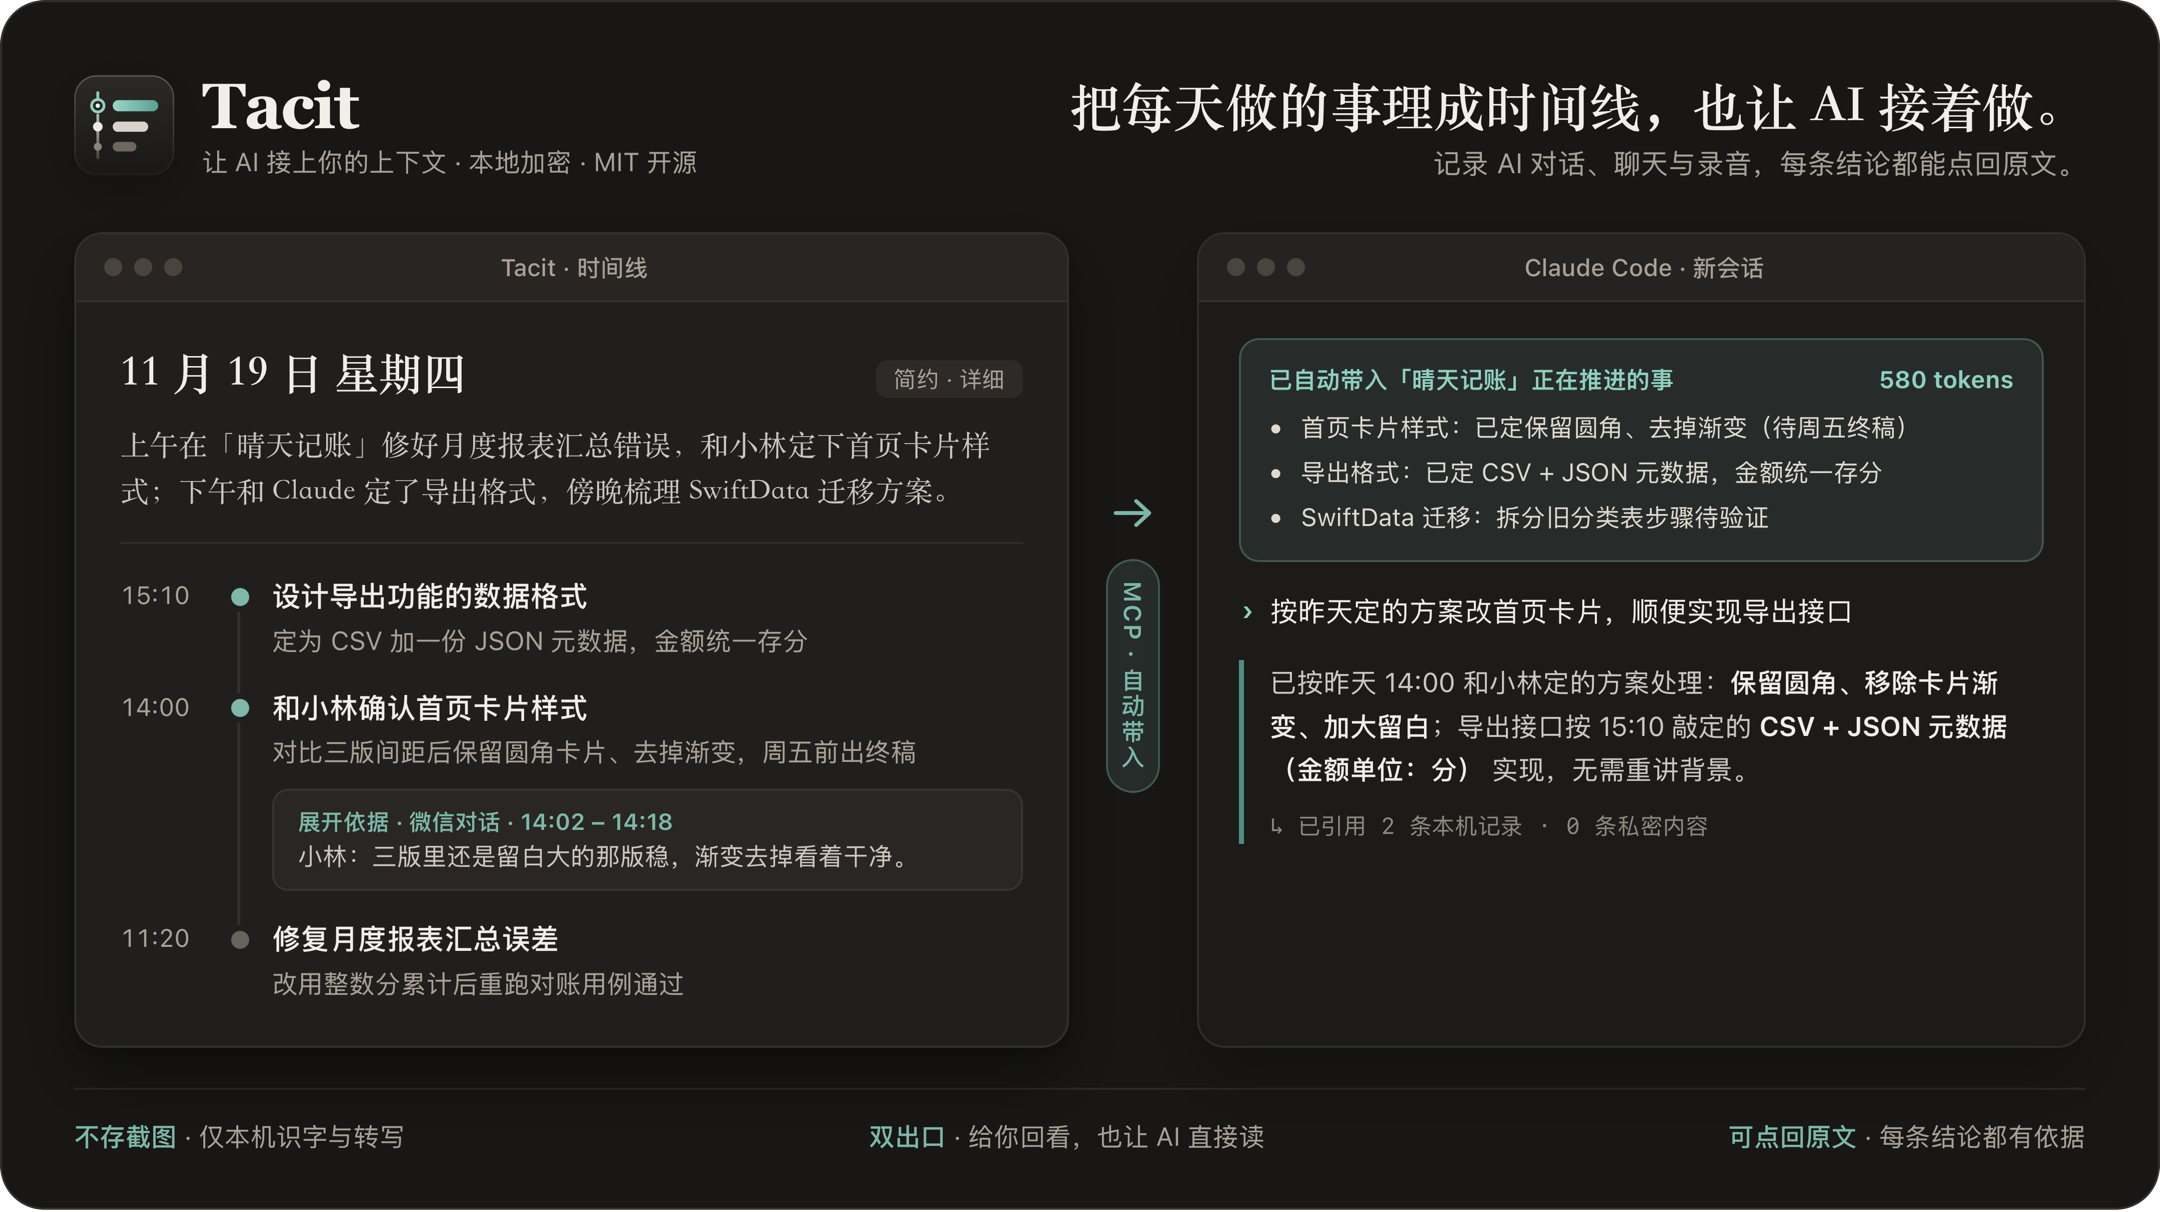
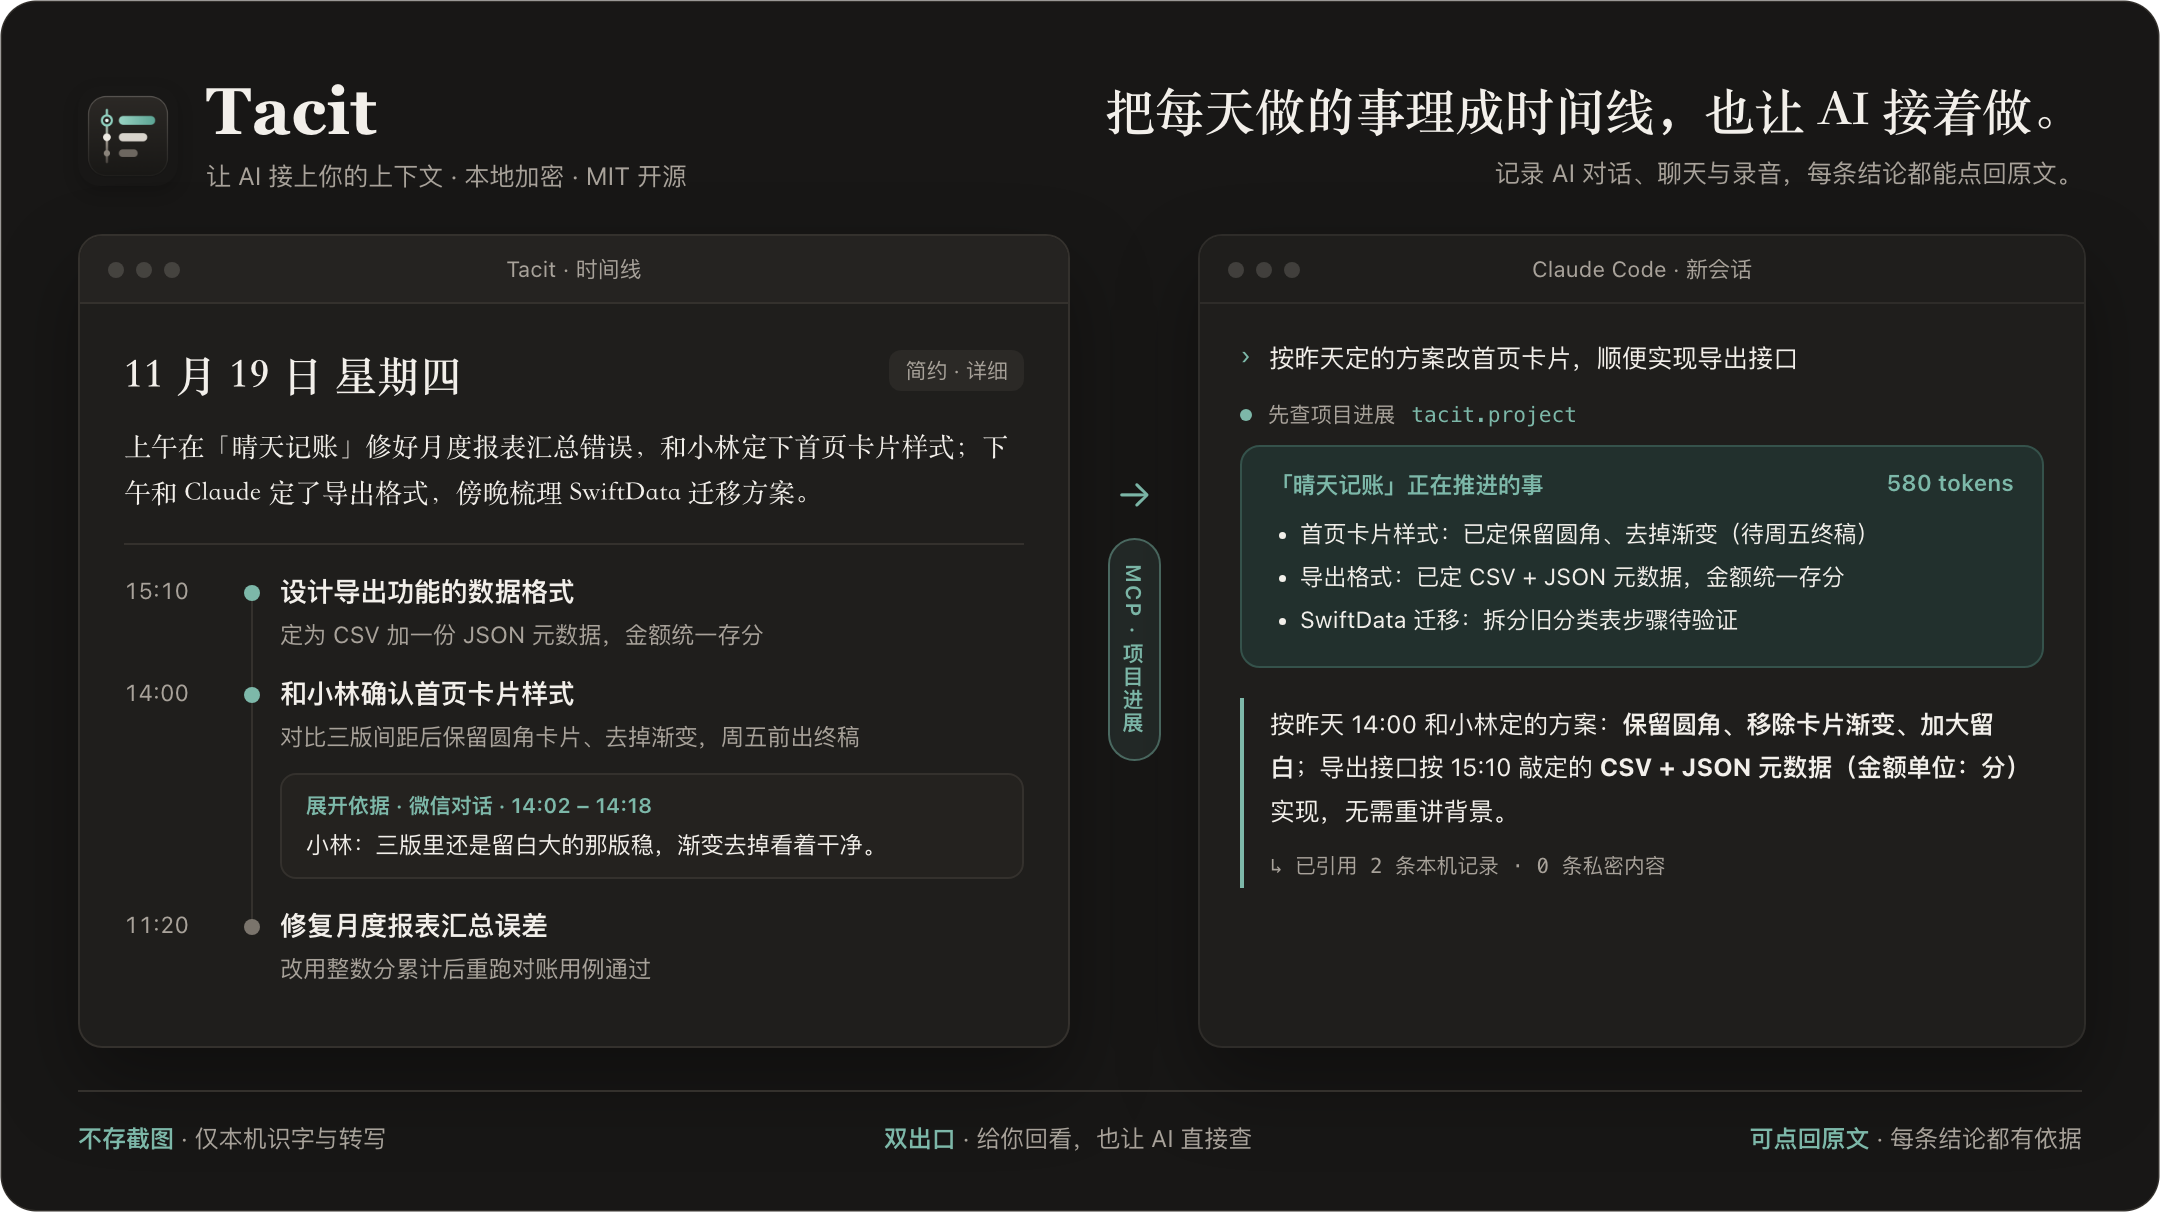
docs: redraw the README hero for on-demand project progress
The hero images showed project context being injected into a new session.
They now show the AI calling `tacit.project` after the request, then
answering from the returned progress. The flow diagrams and the Chinese
site share image use the same wording. The images are now rendered from
assets/readme/hero.html by scripts/render-readme-hero.ts (Chrome headless
plus an ffmpeg corner mask), so later copy changes can be re-rendered.

Verification: rendered all four variants at 2160x1212 with alpha and
checked them visually; bun test site; tsc.

Rollback: revert this commit.

diff --git a/assets/readme/hero.html b/assets/readme/hero.html
@@ -1,0 +1,182 @@
+<!doctype html>
+<!--
+  README 首页大图的源文件。渲染（在仓库根目录）：bun scripts/render-readme-hero.ts
+  参数：?lang=zh|en&theme=light|dark。画布 1080×606，按 2 倍输出 2160×1212。
+  内容全部虚构（晴天记账 / Sunledger）。
+-->
+<html>
+<head>
+<meta charset="utf-8">
+<style>
+  :root {
+    --bg: #f6f4ef; --panel: #ffffff; --panel-bar: #f1ede6; --line: #e6e1d8; --ink: #1c1b1a; --muted: #6f6a62; --faint: #a39d93;
+    --accent: #3b7468; --accent-soft: rgb(59 116 104 / 0.10); --chip: #f1ede6; --evidence: #f5f2ec;
+    --term: #1e1d1b; --term-bar: #1e1d1b; --term-ink: #f2efea; --term-muted: #a8a29a; --term-accent: #7db8a9; --term-card: #233532; --term-card-line: #355a52;
+    --dot: #3b7468; --dot-old: #a39d93; --shadow: 0 18px 40px rgb(40 32 20 / 0.10), 0 2px 6px rgb(40 32 20 / 0.06);
+    --serif: "Songti SC", "STSong", Georgia, serif;
+    --serif-latin: ui-serif, "New York", Georgia, "Songti SC", serif;
+    --sans: -apple-system, BlinkMacSystemFont, "PingFang SC", "Helvetica Neue", sans-serif;
+    --mono: ui-monospace, "SF Mono", Menlo, monospace;
+  }
+  :root[data-theme="dark"] {
+    --bg: #181716; --panel: #1f1e1c; --panel-bar: #252321; --line: #34312d; --ink: #f2efea; --muted: #a8a29a; --faint: #7a746c;
+    --accent: #7db8a9; --accent-soft: rgb(125 184 169 / 0.12); --chip: #2b2926; --evidence: #24221f;
+    --term: #1f1e1c; --term-bar: #1f1e1c; --term-card: #22302d; --term-card-line: #35524b;
+    --dot: #7db8a9; --dot-old: #7a746c; --shadow: 0 18px 40px rgb(0 0 0 / 0.35);
+  }
+  * { box-sizing: border-box; margin: 0; padding: 0; }
+  html, body { width: 1080px; height: 606px; overflow: hidden; }
+  body { border-radius: 18px; border: 1px solid var(--line); background: var(--bg); color: var(--ink); font-family: var(--sans); -webkit-font-smoothing: antialiased; position: relative; }
+  :root[lang="en"] .serif { font-family: var(--serif-latin); }
+  .serif { font-family: var(--serif); }
+
+  header { position: absolute; left: 38px; right: 38px; top: 38px; display: flex; justify-content: space-between; }
+  .brand { display: flex; gap: 14px; align-items: center; }
+  .brand img { width: 50px; height: 50px; border-radius: 11px; box-shadow: 0 3px 8px rgb(0 0 0 / 0.18); }
+  .brand h1 { font-family: Georgia, var(--serif); font-size: 33px; line-height: 1; font-weight: 700; letter-spacing: 0.2px; }
+  .brand p { margin-top: 7px; font-size: 12.5px; color: var(--muted); }
+  .tagline { text-align: right; }
+  .tagline h2 { font-size: 25px; font-weight: 600; line-height: 1.1; margin-top: 2px; }
+  .tagline p { margin-top: 9px; font-size: 12.5px; color: var(--muted); }
+
+  .window { position: absolute; top: 116px; height: 407px; border-radius: 12px; overflow: hidden; box-shadow: var(--shadow); }
+  .bar { height: 34px; display: flex; align-items: center; justify-content: center; position: relative; font-size: 11px; }
+  .bar i { position: absolute; left: 14px; top: 13px; display: flex; gap: 6px; }
+  .bar i b { width: 8px; height: 8px; border-radius: 50%; background: currentColor; opacity: 0.25; }
+
+  .timeline { left: 38px; width: 496px; background: var(--panel); border: 1px solid var(--line); }
+  .timeline .bar { background: var(--panel-bar); border-bottom: 1px solid var(--line); color: var(--muted); }
+  .tl { padding: 20px 22px 0 22px; }
+  .tl-head { display: flex; justify-content: space-between; align-items: flex-start; }
+  .tl-head h3 { font-size: 21px; font-weight: 700; letter-spacing: 0.3px; }
+  .chip { font-size: 10.5px; color: var(--muted); background: var(--chip); border-radius: 6px; padding: 3px 8px; margin-top: 3px; }
+  .overview { margin-top: 10px; font-size: 13.4px; line-height: 1.72; padding-bottom: 14px; border-bottom: 1px solid var(--line); }
+  .items { position: relative; margin-top: 14px; }
+  .items::before { content: ""; position: absolute; left: 63.5px; top: 8px; bottom: 26px; width: 1px; background: var(--line); }
+  .item { display: grid; grid-template-columns: 52px 18px 1fr; column-gap: 4px; margin-bottom: 12px; }
+  .item time { font-size: 11.5px; color: var(--muted); padding-top: 2px; font-variant-numeric: tabular-nums; }
+  .item .dot { width: 8px; height: 8px; border-radius: 50%; background: var(--dot); margin: 6px 0 0 4px; position: relative; }
+  .item.old .dot { background: var(--dot-old); }
+  .item h4 { font-size: 13.4px; font-weight: 600; }
+  .item p { font-size: 11.6px; color: var(--muted); margin-top: 4px; }
+  .evidence { margin: 10px 0 2px; background: var(--evidence); border: 1px solid var(--line); border-radius: 8px; padding: 8px 12px; }
+  .evidence small { display: block; font-size: 10.5px; color: var(--accent); font-weight: 600; }
+  .evidence span { display: block; margin-top: 4px; font-size: 11.6px; color: var(--ink); }
+
+  .bridge { position: absolute; left: 553px; top: 236px; width: 26px; display: flex; flex-direction: column; align-items: center; gap: 12px; color: var(--accent); }
+  .bridge .arrow { font-size: 20px; line-height: 1; }
+  .bridge .pill { writing-mode: vertical-rl; font-size: 10.5px; font-weight: 600; letter-spacing: 1px; border: 1px solid color-mix(in srgb, var(--accent) 45%, transparent); background: var(--accent-soft); border-radius: 14px; padding: 12px 5px; }
+
+  .term { left: 598px; width: 444px; background: var(--term); color: var(--term-ink); border: 1px solid #2e2c29; }
+  .term .bar { background: var(--term-bar); color: var(--term-muted); border-bottom: 1px solid #2e2c29; }
+  .tm { padding: 18px 20px 0 20px; }
+  .ask { font-size: 12.6px; display: flex; gap: 9px; }
+  .ask::before { content: "›"; color: var(--term-accent); }
+  .call { margin-top: 12px; font-family: var(--mono); font-size: 10.6px; color: var(--term-muted); display: flex; gap: 8px; align-items: center; }
+  .call::before { content: ""; width: 6px; height: 6px; border-radius: 50%; background: var(--term-accent); }
+  .call code { color: var(--term-accent); }
+  .card { margin-top: 8px; border: 1px solid var(--term-card-line); background: var(--term-card); border-radius: 10px; padding: 11px 14px 12px; }
+  .card-head { display: flex; justify-content: space-between; font-size: 11.4px; font-weight: 600; color: var(--term-accent); }
+  .card ul { margin-top: 6px; padding-left: 15px; font-size: 11.6px; line-height: 1.85; }
+  .answer { margin-top: 15px; border-left: 2px solid var(--term-accent); padding: 2px 0 2px 13px; font-size: 12.4px; line-height: 1.75; }
+  .answer b { font-weight: 700; }
+  .answer small { display: block; margin-top: 8px; font-family: var(--mono); font-size: 10.4px; color: var(--term-muted); }
+
+  footer { position: absolute; left: 38px; right: 38px; top: 544px; border-top: 1px solid var(--line); padding-top: 15px; display: flex; justify-content: space-between; font-size: 12px; color: var(--muted); }
+  footer b { color: var(--accent); font-weight: 600; }
+</style>
+</head>
+<body>
+<header>
+  <div class="brand">
+    <img src="../icons/generated/macos/AppIcon.iconset/icon_512x512.png" alt="">
+    <div><h1>Tacit</h1><p data-t="sub"></p></div>
+  </div>
+  <div class="tagline"><h2 class="serif" data-t="headline"></h2><p data-t="subline"></p></div>
+</header>
+
+<section class="window timeline">
+  <div class="bar"><i><b></b><b></b><b></b></i><span data-t="tlTitle"></span></div>
+  <div class="tl">
+    <div class="tl-head"><h3 class="serif" data-t="date"></h3><span class="chip" data-t="modes"></span></div>
+    <p class="overview serif" data-t="overview"></p>
+    <div class="items">
+      <div class="item"><time>15:10</time><span class="dot"></span><div><h4 data-t="i1"></h4><p data-t="i1d"></p></div></div>
+      <div class="item"><time>14:00</time><span class="dot"></span><div><h4 data-t="i2"></h4><p data-t="i2d"></p>
+        <div class="evidence"><small data-t="evTitle"></small><span data-t="ev"></span></div></div></div>
+      <div class="item old"><time>11:20</time><span class="dot"></span><div><h4 data-t="i3"></h4><p data-t="i3d"></p></div></div>
+    </div>
+  </div>
+</section>
+
+<div class="bridge"><span class="arrow">→</span><span class="pill" data-t="pill"></span></div>
+
+<section class="window term">
+  <div class="bar"><i><b></b><b></b><b></b></i><span data-t="termTitle"></span></div>
+  <div class="tm">
+    <p class="ask" data-t="ask"></p>
+    <p class="call" data-h="call"></p>
+    <div class="card">
+      <div class="card-head"><span data-t="cardTitle"></span><span>580 tokens</span></div>
+      <ul><li data-t="b1"></li><li data-t="b2"></li><li data-t="b3"></li></ul>
+    </div>
+    <div class="answer"><p data-h="answer"></p><small data-t="basis"></small></div>
+  </div>
+</section>
+
+<footer><span data-h="f1"></span><span data-h="f2"></span><span data-h="f3"></span></footer>
+
+<script>
+const copy = {
+  zh: {
+    sub: "让 AI 接上你的上下文 · 本地加密 · MIT 开源",
+    headline: "把每天做的事理成时间线，也让 AI 接着做。",
+    subline: "记录 AI 对话、聊天与录音，每条结论都能点回原文。",
+    tlTitle: "Tacit · 时间线", date: "11 月 19 日 星期四", modes: "简约 · 详细",
+    overview: "上午在「晴天记账」修好月度报表汇总错误，和小林定下首页卡片样式；下午和 Claude 定了导出格式，傍晚梳理 SwiftData 迁移方案。",
+    i1: "设计导出功能的数据格式", i1d: "定为 CSV 加一份 JSON 元数据，金额统一存分",
+    i2: "和小林确认首页卡片样式", i2d: "对比三版间距后保留圆角卡片、去掉渐变，周五前出终稿",
+    evTitle: "展开依据 · 微信对话 · 14:02 – 14:18", ev: "小林：三版里还是留白大的那版稳，渐变去掉看着干净。",
+    i3: "修复月度报表汇总误差", i3d: "改用整数分累计后重跑对账用例通过",
+    pill: "MCP · 项目进展", termTitle: "Claude Code · 新会话",
+    ask: "按昨天定的方案改首页卡片，顺便实现导出接口",
+    call: "先查项目进展 <code>tacit.project</code>",
+    cardTitle: "「晴天记账」正在推进的事",
+    b1: "首页卡片样式：已定保留圆角、去掉渐变（待周五终稿）",
+    b2: "导出格式：已定 CSV + JSON 元数据，金额统一存分",
+    b3: "SwiftData 迁移：拆分旧分类表步骤待验证",
+    answer: "按昨天 14:00 和小林定的方案：<b>保留圆角、移除卡片渐变、加大留白</b>；导出接口按 15:10 敲定的 <b>CSV + JSON 元数据（金额单位：分）</b> 实现，无需重讲背景。",
+    basis: "↳ 已引用 2 条本机记录 · 0 条私密内容",
+    f1: "<b>不存截图</b> · 仅本机识字与转写", f2: "<b>双出口</b> · 给你回看，也让 AI 直接查", f3: "<b>可点回原文</b> · 每条结论都有依据",
+  },
+  en: {
+    sub: "Context for you and your AI · Local encryption · MIT",
+    headline: "A Timeline you and your AI can use.",
+    subline: "AI sessions, chats, and recordings with a link back to the source.",
+    tlTitle: "Tacit · Timeline", date: "Thursday, November 19", modes: "Simple · Detailed",
+    overview: "Worked on Sunledger: fixed CSV dates for UK banks and shipped budget rollover. Sam agreed to simplify onboarding to one screen.",
+    i1: "Shipped monthly budget rollover", i1d: "Unused budget now carries over for active categories.",
+    i2: "Agreed on one-screen onboarding", i2d: "Sam agreed to cut the tour to one screen.",
+    evTitle: "Expanded evidence · Phone recording · 14:02–14:18", ev: "Sam: One screen with the first step is enough.",
+    i3: "Fixed CSV date parsing for UK banks", i3d: "Day-first dates now import correctly.",
+    pill: "MCP · Project progress", termTitle: "Claude Code · New session",
+    ask: "Update onboarding and cover rollover in a test.",
+    call: "Checking project progress <code>tacit.project</code>",
+    cardTitle: "Sunledger · Project progress",
+    b1: "Budget rollover shipped. Deleted categories are still open.",
+    b2: "Sam agreed to cut onboarding to one screen.",
+    b3: "UK bank CSV imports now accept day-first dates.",
+    answer: "I'll use the <b>first-step screen</b> you agreed on with Sam. Then I'll add a test for active categories and flag the <b>open question about deleted categories</b>.",
+    basis: "↳ Based on 2 local records · 0 private records",
+    f1: "<b>No screenshots saved</b> · Text and transcripts", f2: "<b>Two ways to read</b> · Your Timeline and your AI", f3: "<b>Back to the source</b> · Open the evidence",
+  },
+};
+const params = new URLSearchParams(location.search);
+const lang = params.get("lang") === "en" ? "en" : "zh";
+document.documentElement.lang = lang;
+document.documentElement.dataset.theme = params.get("theme") === "dark" ? "dark" : "light";
+for (const el of document.querySelectorAll("[data-t]")) el.textContent = copy[lang][el.dataset.t];
+for (const el of document.querySelectorAll("[data-h]")) el.innerHTML = copy[lang][el.dataset.h];
+</script>
+</body>
+</html>

diff --git a/scripts/render-readme-hero.ts b/scripts/render-readme-hero.ts
@@ -1,0 +1,40 @@
+// 用本机 Chrome 无头模式和 ffmpeg把 assets/readme/hero.html 渲染成 README 首页的四张大图（2160×1212）。
+// 用法：bun scripts/render-readme-hero.ts [输出目录，默认 assets/readme；默认目录时同时更新官网中文分享封面]
+import { copyFileSync, existsSync, rmSync } from "node:fs";
+import { tmpdir } from "node:os";
+import { join, resolve } from "node:path";
+import { pathToFileURL } from "node:url";
+
+const chrome = "/Applications/Google Chrome.app/Contents/MacOS/Google Chrome";
+if (!existsSync(chrome)) throw new Error(`没找到 Chrome：${chrome}`);
+const root = resolve(import.meta.dir, "..");
+const out = resolve(process.argv[2] ?? join(root, "assets/readme"));
+const page = pathToFileURL(join(root, "assets/readme/hero.html")).href;
+const targets = [
+  ["zh", "light", "hero-light.png"], ["zh", "dark", "hero-dark.png"],
+  ["en", "light", "hero-en-light.png"], ["en", "dark", "hero-en-dark.png"],
+] as const;
+
+// Chrome 的截图不带透明层，四角按页面 18px 圆角（输出 36px）用 ffmpeg 抠成透明，边缘做 1px 抗锯齿。
+const radius = 36;
+const dx = `max(0,max(${radius}-X,X-(W-1-${radius})))`, dy = `max(0,max(${radius}-Y,Y-(H-1-${radius})))`;
+const mask = `format=rgba,geq=r='r(X,Y)':g='g(X,Y)':b='b(X,Y)':a='255*clip(${radius}+0.5-hypot(${dx},${dy}),0,1)'`;
+
+for (const [lang, theme, name] of targets) {
+  const file = join(out, name), raw = join(tmpdir(), `tacit-hero-${process.pid}-${name}`);
+  try {
+    const result = Bun.spawnSync([chrome, "--headless=new", "--disable-gpu", "--hide-scrollbars", "--allow-file-access-from-files",
+      "--force-device-scale-factor=2", "--window-size=1080,606", "--virtual-time-budget=3000",
+      `--screenshot=${raw}`, `${page}?lang=${lang}&theme=${theme}`], { stdout: "pipe", stderr: "pipe" });
+    if (result.exitCode !== 0 || !existsSync(raw)) throw new Error(`${name} 渲染失败：${result.stderr.toString().slice(-400)}`);
+    const masked = Bun.spawnSync(["ffmpeg", "-loglevel", "error", "-y", "-i", raw, "-vf", mask, "-pix_fmt", "rgba", file], { stdout: "pipe", stderr: "pipe" });
+    if (masked.exitCode !== 0) throw new Error(`${name} 圆角处理失败：${masked.stderr.toString().slice(-400)}`);
+  } finally { rmSync(raw, { force: true }); }
+  console.log(file);
+}
+
+// 官网中文分享封面就是中文浅色版。只在输出到仓库默认目录时同步，避免试渲染覆盖官网资产。
+if (out === join(root, "assets/readme")) {
+  copyFileSync(join(out, "hero-light.png"), join(root, "site/src/assets/og-cover.png"));
+  console.log(join(root, "site/src/assets/og-cover.png"));
+}
